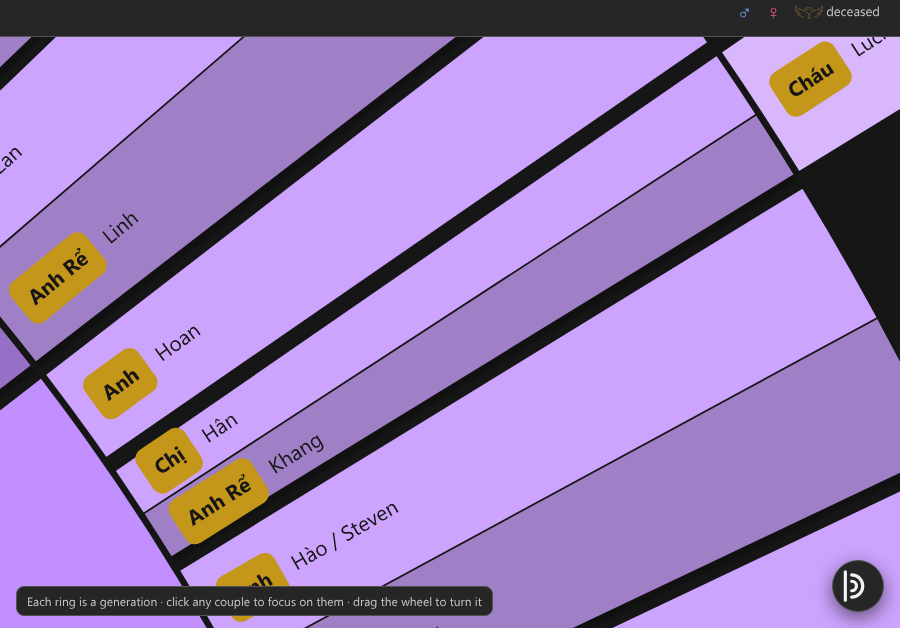
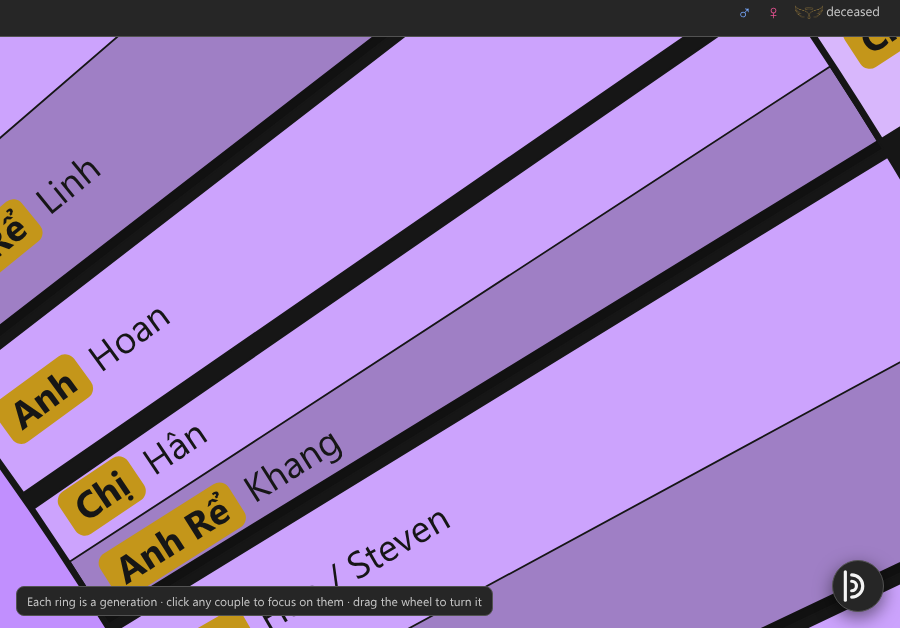
Sunburst: fix labels stuck at 9.5 px (now really 17 px); size the wheel where the chip sits (Entry 50)
Claude-Session: https://claude.ai/code/session_01L5J4XGDoU485bNMdVhDAYq

diff --git a/mockups/sunburst-focus.html b/mockups/sunburst-focus.html
@@ -42,7 +42,7 @@ body.focus #band{display:block}
 #band span.two i.b{font-size:.78em;font-weight:600;opacity:.9}
 svg{width:100%;height:100%;display:block;cursor:grab}
 path.node{cursor:pointer;stroke-linejoin:round}
-.arclabel{font-size:9.5px;pointer-events:none}
+.arclabel{pointer-events:none}   /* size comes from each label (Entry 50: a 9.5px rule here was overriding it) */
 .card text{fill:var(--ink);pointer-events:none}
 .card .M{fill:var(--m)} .card .F{fill:var(--f)} .card .U{fill:var(--muted)}
 .card .unk{fill:var(--muted);font-style:italic}
@@ -5700,6 +5700,7 @@ const LV_BASE={}; for(let l=-1;l>=-12;l--) LV_BASE[l]=LV[l];
 const CW=230, PW=230, SG=28,  // spouse gap doubled 14 → 28 (Hanh, Entry 15)
      _unused=0, LH=36, PADY=12, GAPX=100, GAPY=70,  // gap between sibling families 44 → 100 (Hanh, Entry 15)
       RING0=110;
+let LBL=new URLSearchParams(location.search).get('lbl')||'fixed', SCREENPX=15, LBLT=null;   // Entry 50 preview
 let RING=RING0, SUNFS=+(new URLSearchParams(location.search).get('fs')||17);   // Entry 48 (Hanh): sunburst label size 17 px (preview others via ?fs=)   // Entry 47: the wheel's ring thickness; grown per sheet so the thinnest person panel fits a chip
 // Entry 15: generation spacing multiplier (1.0 = the spacing before Entry 15). Hanh asked for 150%; rail panel to tune.
 let GEN_SP=+(new URLSearchParams(location.search).get('gen')||150)/100;  // LOCKED 150% (Hanh, Entry 15); rail removed
@@ -5787,7 +5788,8 @@ function build(){
   stage.innerHTML='';
   svg=d3.select(stage).append('svg');
   cam=svg.append('g');
-  zoom=d3.zoom().scaleExtent([0.03,4]).on('zoom',e=>{cam.attr('transform',e.transform); placeBand(e.transform)});
+  zoom=d3.zoom().scaleExtent([0.03,4]).on('zoom',e=>{cam.attr('transform',e.transform); placeBand(e.transform);
+    if(LBL==='screen'&&mode==='sun'){ clearTimeout(LBLT); LBLT=setTimeout(()=>{ if(mode==='sun') drawArcLabels(1) },120) } });
   zoom.filter(e=>!(e.type==='wheel'&&mode==='focus'&&!e.ctrlKey)&&(!e.ctrlKey||e.type==='wheel')&&!e.button
     &&!(mode==='sun'&&e.target.closest&&e.target.closest('path.node,.plabel')&&(e.type==='mousedown'||(e.type==='touchstart'&&e.touches.length<2))));   // one finger / mouse on the wheel rotates it (Entry 35); two fingers pinch-zoom anywhere (Entry 36)
   svg.call(zoom).on('dblclick.zoom',null);
@@ -5801,8 +5803,9 @@ function build(){
   d3.partition().size([2*Math.PI,depth])(root);
   // Entry 47 (Hanh): make the wheel big enough that the thinnest one-person panel holds a title chip (11 px text,
   // chip 15 px tall) with 2 px above and below: arc length at the label ≥ 19 px (+2 for the slice borders).
-  { let mn=1e9; root.descendants().forEach(d=>{ if(d.depth>0) mn=Math.min(mn,((d.x1-d.x0-.004)/d.data.members.length)*(d.y0+d.y1)/2) });
-    RING=RING0*Math.max(1,(SUNFS*1.36+4+2)/(mn*RING0)) }   // chip (1.36 × text) + 2 px top/bottom + borders
+  // Measured where the chip actually sits: near the panel's INNER edge (inner radius + ~20 px), not its middle.
+  { const need=SUNFS*1.36+4+4; RING=RING0;   // chip (1.36 × text) + 2 px top/bottom + borders
+    root.descendants().forEach(d=>{ if(d.depth>0){ const ang=(d.x1-d.x0-.004)/d.data.members.length; RING=Math.max(RING,(need/ang-8)/d.y0) } }) }
   nodes=root.descendants(); nodes.forEach((d,i)=>d.id=i);
   MEMBER_NODE=new Map(); nodes.forEach(n=>n.data.members.forEach((m,i)=>MEMBER_NODE.set(m,{n,i})));
   if(VIEW&&!MEMBER_NODE.has(VIEW)) setView(null,true);
@@ -5876,11 +5879,17 @@ function drawArcLabels(op){
       if(P.i>0) gLabels.append('path').attr('d',sub({startAngle:P.a0,endAngle:P.a1,innerRadius:P.r0,outerRadius:P.r1}))
         .attr('fill','#000').attr('fill-opacity',.22).attr('stroke',css('--paper')).attr('stroke-width',.8).style('pointer-events','none');
       const mid=(P.a0+P.a1)/2, a=(mid*180/Math.PI%360+360)%360, rr=(P.r0+P.r1)/2, len=(P.a1-P.a0)*rr, th=P.r1-P.r0;
-      if(len<11) return;
+      if(len<11&&LBL!=='screen') return;
       const ttl=VIEW?relTitle(P.mb):'', nmT=firstName(P.mb), showName=!(ttl&&ttl.split(' ').includes(nmT));
       const flip=false, g=gLabels.append('g').attr('transform',`rotate(${a-90}) translate(${rr},0)`);   // Entry 47 (Hanh): never flipped, so the chip is always at the inner edge (left half reads upside down; turn the wheel)
       const ink=bestInk(fillOf(d));   // names use the blood relative's panel colour (spouses match, Entry 45)
-      const fs=SUNFS, room=th-16, on=VIEW===P.mb;   // Entry 47: text 1 pt larger, same size everywhere (the wheel grows to fit)
+      // Entry 50 (preview): LBL 'fixed' = 17 px everywhere; 'fit' = text grows to fill big panels; 'screen' = same size
+      // on screen at any zoom (labels that don't fit at this zoom hide until you zoom in)
+      const kz=d3.zoomTransform(svg.node()).k||1;
+      let fs=SUNFS;
+      if(LBL==='fit') fs=Math.max(SUNFS,Math.min(72,len*.45,th*.2));
+      if(LBL==='screen'){ fs=SCREENPX/kz; if(fs*1.36+4>len||th<fs*3) return }
+      const room=th-16, on=VIEW===P.mb;
       // Entry 47 (Hanh): the title sits in a dark-mustard chip with black text, then the name. Tapping either views the
       // wheel as this person (tap again to clear). Starts 10 px from the inner edge; on the flipped half it ends there.
       const lab=g.append('g').attr('class','plabel').style('cursor','pointer')

diff --git a/index.html b/index.html
@@ -42,7 +42,7 @@ body.focus #band{display:block}
 #band span.two i.b{font-size:.78em;font-weight:600;opacity:.9}
 svg{width:100%;height:100%;display:block;cursor:grab}
 path.node{cursor:pointer;stroke-linejoin:round}
-.arclabel{font-size:9.5px;pointer-events:none}
+.arclabel{pointer-events:none}   /* size comes from each label (Entry 50: a 9.5px rule here was overriding it) */
 .card text{fill:var(--ink);pointer-events:none}
 .card .M{fill:var(--m)} .card .F{fill:var(--f)} .card .U{fill:var(--muted)}
 .card .unk{fill:var(--muted);font-style:italic}
@@ -201,6 +201,7 @@ const LV_BASE={}; for(let l=-1;l>=-12;l--) LV_BASE[l]=LV[l];
 const CW=230, PW=230, SG=28,  // spouse gap doubled 14 → 28 (Hanh, Entry 15)
      _unused=0, LH=36, PADY=12, GAPX=100, GAPY=70,  // gap between sibling families 44 → 100 (Hanh, Entry 15)
       RING0=110;
+let LBL=new URLSearchParams(location.search).get('lbl')||'fixed', SCREENPX=15, LBLT=null;   // Entry 50 preview
 let RING=RING0, SUNFS=+(new URLSearchParams(location.search).get('fs')||17);   // Entry 48 (Hanh): sunburst label size 17 px (preview others via ?fs=)   // Entry 47: the wheel's ring thickness; grown per sheet so the thinnest person panel fits a chip
 // Entry 15: generation spacing multiplier (1.0 = the spacing before Entry 15). Hanh asked for 150%; rail panel to tune.
 let GEN_SP=+(new URLSearchParams(location.search).get('gen')||150)/100;  // LOCKED 150% (Hanh, Entry 15); rail removed
@@ -288,7 +289,8 @@ function build(){
   stage.innerHTML='';
   svg=d3.select(stage).append('svg');
   cam=svg.append('g');
-  zoom=d3.zoom().scaleExtent([0.03,4]).on('zoom',e=>{cam.attr('transform',e.transform); placeBand(e.transform)});
+  zoom=d3.zoom().scaleExtent([0.03,4]).on('zoom',e=>{cam.attr('transform',e.transform); placeBand(e.transform);
+    if(LBL==='screen'&&mode==='sun'){ clearTimeout(LBLT); LBLT=setTimeout(()=>{ if(mode==='sun') drawArcLabels(1) },120) } });
   zoom.filter(e=>!(e.type==='wheel'&&mode==='focus'&&!e.ctrlKey)&&(!e.ctrlKey||e.type==='wheel')&&!e.button
     &&!(mode==='sun'&&e.target.closest&&e.target.closest('path.node,.plabel')&&(e.type==='mousedown'||(e.type==='touchstart'&&e.touches.length<2))));   // one finger / mouse on the wheel rotates it (Entry 35); two fingers pinch-zoom anywhere (Entry 36)
   svg.call(zoom).on('dblclick.zoom',null);
@@ -302,8 +304,9 @@ function build(){
   d3.partition().size([2*Math.PI,depth])(root);
   // Entry 47 (Hanh): make the wheel big enough that the thinnest one-person panel holds a title chip (11 px text,
   // chip 15 px tall) with 2 px above and below: arc length at the label ≥ 19 px (+2 for the slice borders).
-  { let mn=1e9; root.descendants().forEach(d=>{ if(d.depth>0) mn=Math.min(mn,((d.x1-d.x0-.004)/d.data.members.length)*(d.y0+d.y1)/2) });
-    RING=RING0*Math.max(1,(SUNFS*1.36+4+2)/(mn*RING0)) }   // chip (1.36 × text) + 2 px top/bottom + borders
+  // Measured where the chip actually sits: near the panel's INNER edge (inner radius + ~20 px), not its middle.
+  { const need=SUNFS*1.36+4+4; RING=RING0;   // chip (1.36 × text) + 2 px top/bottom + borders
+    root.descendants().forEach(d=>{ if(d.depth>0){ const ang=(d.x1-d.x0-.004)/d.data.members.length; RING=Math.max(RING,(need/ang-8)/d.y0) } }) }
   nodes=root.descendants(); nodes.forEach((d,i)=>d.id=i);
   MEMBER_NODE=new Map(); nodes.forEach(n=>n.data.members.forEach((m,i)=>MEMBER_NODE.set(m,{n,i})));
   if(VIEW&&!MEMBER_NODE.has(VIEW)) setView(null,true);
@@ -377,11 +380,17 @@ function drawArcLabels(op){
       if(P.i>0) gLabels.append('path').attr('d',sub({startAngle:P.a0,endAngle:P.a1,innerRadius:P.r0,outerRadius:P.r1}))
         .attr('fill','#000').attr('fill-opacity',.22).attr('stroke',css('--paper')).attr('stroke-width',.8).style('pointer-events','none');
       const mid=(P.a0+P.a1)/2, a=(mid*180/Math.PI%360+360)%360, rr=(P.r0+P.r1)/2, len=(P.a1-P.a0)*rr, th=P.r1-P.r0;
-      if(len<11) return;
+      if(len<11&&LBL!=='screen') return;
       const ttl=VIEW?relTitle(P.mb):'', nmT=firstName(P.mb), showName=!(ttl&&ttl.split(' ').includes(nmT));
       const flip=false, g=gLabels.append('g').attr('transform',`rotate(${a-90}) translate(${rr},0)`);   // Entry 47 (Hanh): never flipped, so the chip is always at the inner edge (left half reads upside down; turn the wheel)
       const ink=bestInk(fillOf(d));   // names use the blood relative's panel colour (spouses match, Entry 45)
-      const fs=SUNFS, room=th-16, on=VIEW===P.mb;   // Entry 47: text 1 pt larger, same size everywhere (the wheel grows to fit)
+      // Entry 50 (preview): LBL 'fixed' = 17 px everywhere; 'fit' = text grows to fill big panels; 'screen' = same size
+      // on screen at any zoom (labels that don't fit at this zoom hide until you zoom in)
+      const kz=d3.zoomTransform(svg.node()).k||1;
+      let fs=SUNFS;
+      if(LBL==='fit') fs=Math.max(SUNFS,Math.min(72,len*.45,th*.2));
+      if(LBL==='screen'){ fs=SCREENPX/kz; if(fs*1.36+4>len||th<fs*3) return }
+      const room=th-16, on=VIEW===P.mb;
       // Entry 47 (Hanh): the title sits in a dark-mustard chip with black text, then the name. Tapping either views the
       // wheel as this person (tap again to clear). Starts 10 px from the inner edge; on the flipped half it ends there.
       const lab=g.append('g').attr('class','plabel').style('cursor','pointer')

diff --git a/mockups/sunburst-focus.template.html b/mockups/sunburst-focus.template.html
@@ -40,7 +40,7 @@ body.focus #band{display:block}
 #band span.two i.b{font-size:.78em;font-weight:600;opacity:.9}
 svg{width:100%;height:100%;display:block;cursor:grab}
 path.node{cursor:pointer;stroke-linejoin:round}
-.arclabel{font-size:9.5px;pointer-events:none}
+.arclabel{pointer-events:none}   /* size comes from each label (Entry 50: a 9.5px rule here was overriding it) */
 .card text{fill:var(--ink);pointer-events:none}
 .card .M{fill:var(--m)} .card .F{fill:var(--f)} .card .U{fill:var(--muted)}
 .card .unk{fill:var(--muted);font-style:italic}
@@ -184,6 +184,7 @@ const LV_BASE={}; for(let l=-1;l>=-12;l--) LV_BASE[l]=LV[l];
 const CW=230, PW=230, SG=28,  // spouse gap doubled 14 → 28 (Hanh, Entry 15)
      _unused=0, LH=36, PADY=12, GAPX=100, GAPY=70,  // gap between sibling families 44 → 100 (Hanh, Entry 15)
       RING0=110;
+let LBL=new URLSearchParams(location.search).get('lbl')||'fixed', SCREENPX=15, LBLT=null;   // Entry 50 preview
 let RING=RING0, SUNFS=+(new URLSearchParams(location.search).get('fs')||17);   // Entry 48 (Hanh): sunburst label size 17 px (preview others via ?fs=)   // Entry 47: the wheel's ring thickness; grown per sheet so the thinnest person panel fits a chip
 // Entry 15: generation spacing multiplier (1.0 = the spacing before Entry 15). Hanh asked for 150%; rail panel to tune.
 let GEN_SP=+(new URLSearchParams(location.search).get('gen')||150)/100;  // LOCKED 150% (Hanh, Entry 15); rail removed
@@ -271,7 +272,8 @@ function build(){
   stage.innerHTML='';
   svg=d3.select(stage).append('svg');
   cam=svg.append('g');
-  zoom=d3.zoom().scaleExtent([0.03,4]).on('zoom',e=>{cam.attr('transform',e.transform); placeBand(e.transform)});
+  zoom=d3.zoom().scaleExtent([0.03,4]).on('zoom',e=>{cam.attr('transform',e.transform); placeBand(e.transform);
+    if(LBL==='screen'&&mode==='sun'){ clearTimeout(LBLT); LBLT=setTimeout(()=>{ if(mode==='sun') drawArcLabels(1) },120) } });
   zoom.filter(e=>!(e.type==='wheel'&&mode==='focus'&&!e.ctrlKey)&&(!e.ctrlKey||e.type==='wheel')&&!e.button
     &&!(mode==='sun'&&e.target.closest&&e.target.closest('path.node,.plabel')&&(e.type==='mousedown'||(e.type==='touchstart'&&e.touches.length<2))));   // one finger / mouse on the wheel rotates it (Entry 35); two fingers pinch-zoom anywhere (Entry 36)
   svg.call(zoom).on('dblclick.zoom',null);
@@ -285,8 +287,9 @@ function build(){
   d3.partition().size([2*Math.PI,depth])(root);
   // Entry 47 (Hanh): make the wheel big enough that the thinnest one-person panel holds a title chip (11 px text,
   // chip 15 px tall) with 2 px above and below: arc length at the label ≥ 19 px (+2 for the slice borders).
-  { let mn=1e9; root.descendants().forEach(d=>{ if(d.depth>0) mn=Math.min(mn,((d.x1-d.x0-.004)/d.data.members.length)*(d.y0+d.y1)/2) });
-    RING=RING0*Math.max(1,(SUNFS*1.36+4+2)/(mn*RING0)) }   // chip (1.36 × text) + 2 px top/bottom + borders
+  // Measured where the chip actually sits: near the panel's INNER edge (inner radius + ~20 px), not its middle.
+  { const need=SUNFS*1.36+4+4; RING=RING0;   // chip (1.36 × text) + 2 px top/bottom + borders
+    root.descendants().forEach(d=>{ if(d.depth>0){ const ang=(d.x1-d.x0-.004)/d.data.members.length; RING=Math.max(RING,(need/ang-8)/d.y0) } }) }
   nodes=root.descendants(); nodes.forEach((d,i)=>d.id=i);
   MEMBER_NODE=new Map(); nodes.forEach(n=>n.data.members.forEach((m,i)=>MEMBER_NODE.set(m,{n,i})));
   if(VIEW&&!MEMBER_NODE.has(VIEW)) setView(null,true);
@@ -360,11 +363,17 @@ function drawArcLabels(op){
       if(P.i>0) gLabels.append('path').attr('d',sub({startAngle:P.a0,endAngle:P.a1,innerRadius:P.r0,outerRadius:P.r1}))
         .attr('fill','#000').attr('fill-opacity',.22).attr('stroke',css('--paper')).attr('stroke-width',.8).style('pointer-events','none');
       const mid=(P.a0+P.a1)/2, a=(mid*180/Math.PI%360+360)%360, rr=(P.r0+P.r1)/2, len=(P.a1-P.a0)*rr, th=P.r1-P.r0;
-      if(len<11) return;
+      if(len<11&&LBL!=='screen') return;
       const ttl=VIEW?relTitle(P.mb):'', nmT=firstName(P.mb), showName=!(ttl&&ttl.split(' ').includes(nmT));
       const flip=false, g=gLabels.append('g').attr('transform',`rotate(${a-90}) translate(${rr},0)`);   // Entry 47 (Hanh): never flipped, so the chip is always at the inner edge (left half reads upside down; turn the wheel)
       const ink=bestInk(fillOf(d));   // names use the blood relative's panel colour (spouses match, Entry 45)
-      const fs=SUNFS, room=th-16, on=VIEW===P.mb;   // Entry 47: text 1 pt larger, same size everywhere (the wheel grows to fit)
+      // Entry 50 (preview): LBL 'fixed' = 17 px everywhere; 'fit' = text grows to fill big panels; 'screen' = same size
+      // on screen at any zoom (labels that don't fit at this zoom hide until you zoom in)
+      const kz=d3.zoomTransform(svg.node()).k||1;
+      let fs=SUNFS;
+      if(LBL==='fit') fs=Math.max(SUNFS,Math.min(72,len*.45,th*.2));
+      if(LBL==='screen'){ fs=SCREENPX/kz; if(fs*1.36+4>len||th<fs*3) return }
+      const room=th-16, on=VIEW===P.mb;
       // Entry 47 (Hanh): the title sits in a dark-mustard chip with black text, then the name. Tapping either views the
       // wheel as this person (tap again to clear). Starts 10 px from the inner edge; on the flipped half it ends there.
       const lab=g.append('g').attr('class','plabel').style('cursor','pointer')

diff --git a/tools/tests/lbl2.js b/tools/tests/lbl2.js
@@ -1,0 +1,9 @@
+const {chromium}=require('playwright-core');
+(async()=>{const S=process.argv[2];const b=await chromium.launch({executablePath:'/opt/pw-browsers/chromium'});
+for(const m of ['fixed','fit','screen']) for(const k of [0.25,0.5]){
+ const p=await b.newPage({viewport:{width:640,height:560}});
+ await p.goto('file://'+S+'/mock/family-tree.html?nointro&lbl='+m);await p.waitForFunction(()=>window.__ready);
+ await p.evaluate(k=>{const n=nodes.find(d=>/^Hợp/.test(d.data.members[0].name));const c=ARC.centroid(n);const W=stage.clientWidth,H=stage.clientHeight;
+   svg.call(zoom.transform,d3.zoomIdentity.translate(W/2-c[0]*k,H/2-c[1]*k).scale(k));drawArcLabels(1)},k);
+ await p.waitForTimeout(300);await p.screenshot({path:S+`/mock/l2-${m}-${k}.png`,clip:{x:0,y:72,width:640,height:488}});await p.close();}
+await b.close();})();

diff --git a/SESSION_LEDGER.md b/SESSION_LEDGER.md
@@ -913,3 +913,15 @@ Then: "Ông Thiện is Ông Hai's older brother." "Tường is Bà Thương's da
   text alone was too easy to miss).
 - Verified on an emulated iPhone (402×874, touch): double tap on Huyền Nhi → stays on the wheel, Seen from Huyền Nhi;
   single tap → opens Huyền Nhi & Brian. Rotate, pinch, Back, snap tests pass. index.html rebuilt.
+
+## Entry 50 (2026-10-24) — Sunburst text really 17 px (bug fix); sizing measured at the chip
+
+- Hanh (screenshot): "the font is too small to read… what can make this more readable."
+- **Root cause (bug):** a leftover CSS rule `.arclabel{font-size:9.5px}` overrode every label's size, so the wheel text
+  was 9.5 px all along (Entries 47–48's 11/17 px never applied). Removed; labels now get their own size.
+- Previewed three ways (`mockups/label-readability.png`): Now 17 px fixed / A text grows to fill big panels / B 15 px on
+  screen at any zoom. **Hanh: keep 17 px fixed.**
+- With real 17 px chips the thinnest panels overflowed, so the wheel size is now measured where the chip sits (inner
+  radius + 8 px), needing chip height + 4 px: Paternal ×3.77, Maternal ×1.76, Huong's Paternal ×2.06, Huong's Maternal
+  ×1.63. Chị Hân / Anh Rể Khang fit (`mockups/sunburst-thinnest-17.png`). Regression tests pass. index.html rebuilt.
+- (The ?lbl=fit / ?lbl=screen preview modes stay in the code but are off.)
